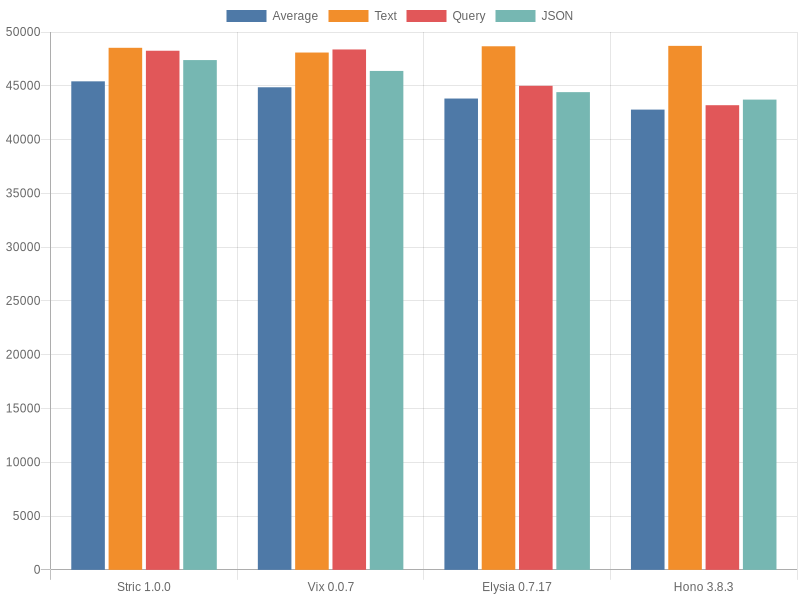
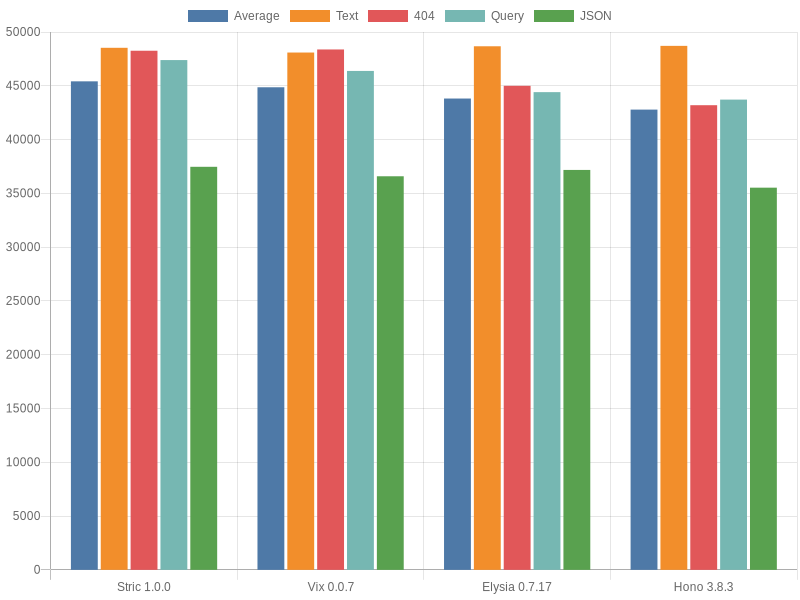
Update chart

diff --git a/lib/utils/chart.ts b/lib/utils/chart.ts
@@ -23,12 +23,16 @@ export function render(output: string, result: typeof import('../../results/data
                     data: result.map(v => v.results[0])
                 },
                 {
-                    label: 'Query',
+                    label: '404',
                     data: result.map(v => v.results[1])
                 },
                 {
-                    label: 'JSON',
+                    label: 'Query',
                     data: result.map(v => v.results[2])
+                },
+                {
+                    label: 'JSON',
+                    data: result.map(v => v.results[3])
                 }
             ]
         }
